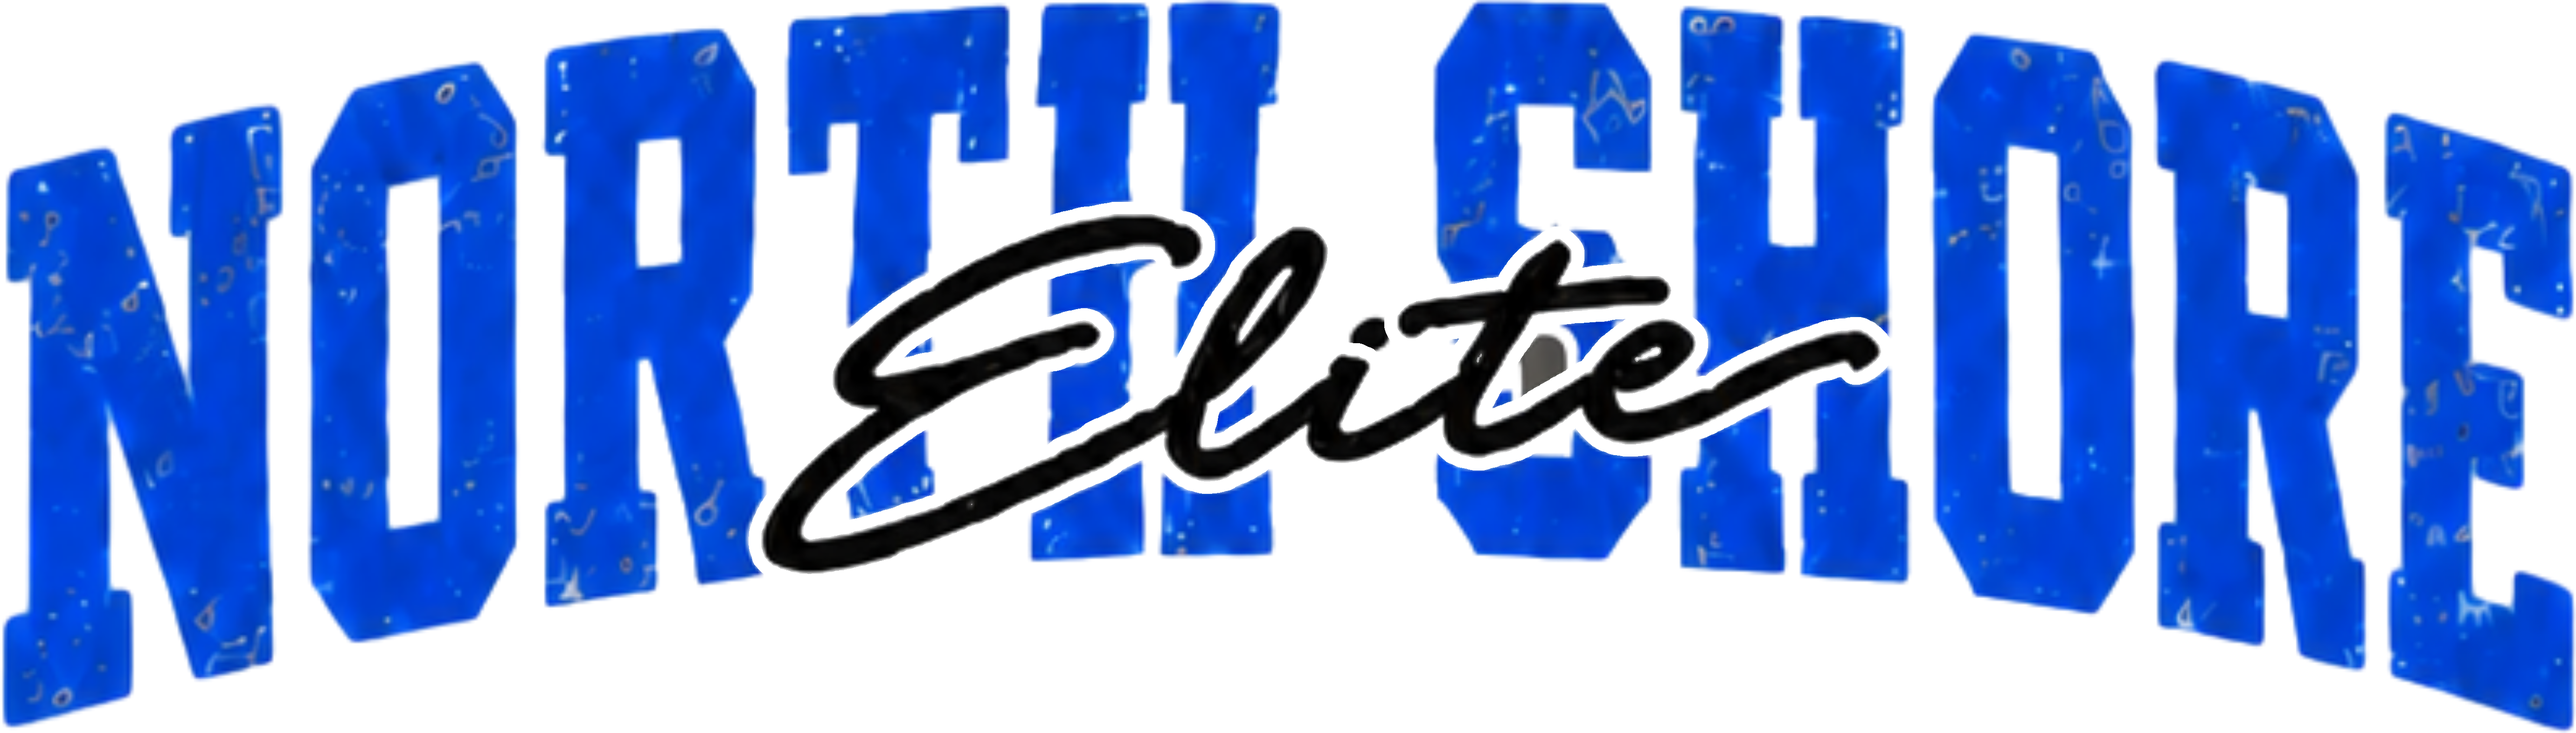
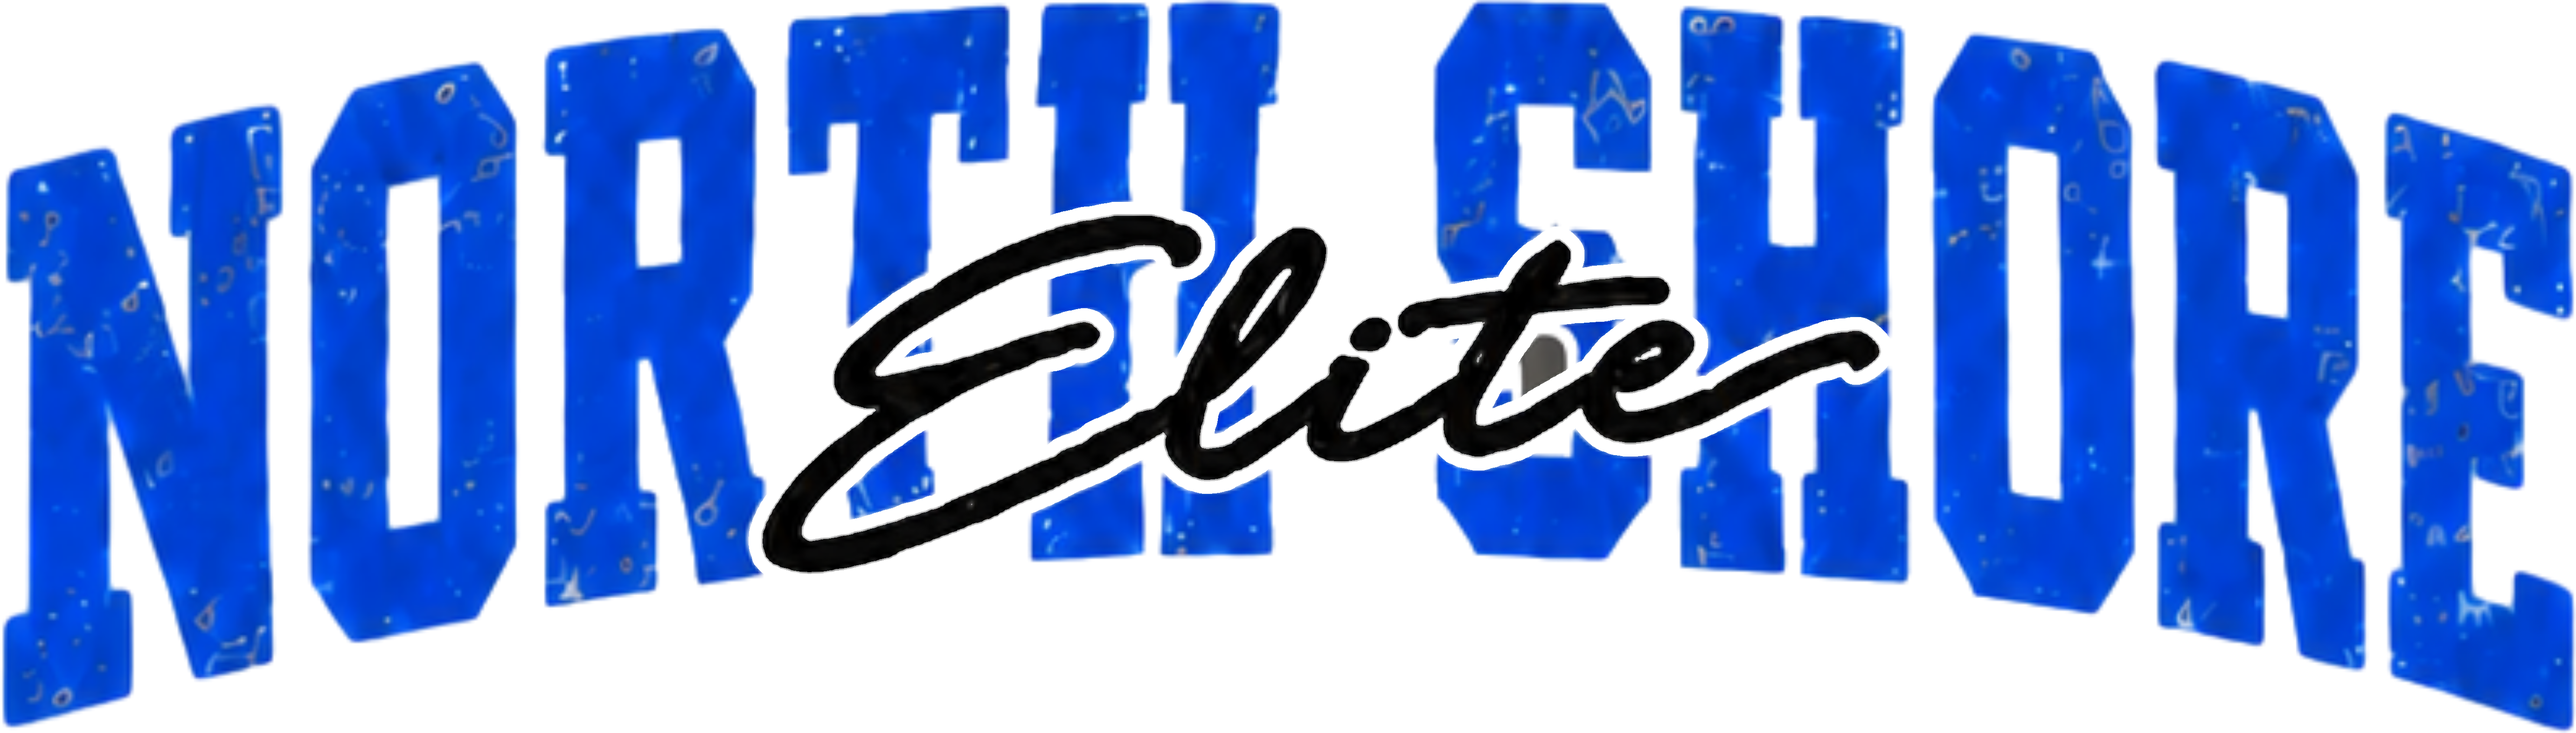
NSE glitter arch trim: Elite kept its own black and made fully solid; i-dot trimmed too
Claude-Session: https://claude.ai/code/session_01DMxqkpx9i6Gphzrjoa9ZM8

diff --git a/tools/nse_arch/elite_trim.py b/tools/nse_arch/elite_trim.py
@@ -15,7 +15,7 @@ a = np.asarray(im.convert('RGBA')).astype(np.float32)
 al = a[..., 3]; rgb = a[..., :3]; lum = rgb.mean(-1)
 dark = (al > 127) & (rgb.max(-1) < 70)
 lab, n = nd.label(dark); sz = np.bincount(lab.ravel()); sz[0] = 0
-core = lab == sz.argmax()                                    # the Elite script
+core = np.isin(lab, np.where(sz > 1000)[0])                 # the Elite script + the dot of its i
 ys, xs = np.where(core); P = int(W) + 20
 y0, y1, x0, x1 = max(0, ys.min() - P), ys.max() + P + 1, max(0, xs.min() - P), xs.max() + P + 1
 sub = core[y0:y1, x0:x1].astype(np.float32)
@@ -28,7 +28,7 @@ T = np.zeros(core.shape, bool); T[y0:y1, x0:x1] = trim
 # Elite coverage on its soft edge (dark, near the core) -> laid over the white
 near = nd.binary_dilation(core, iterations=4)
 e = np.clip((al / 255.0) * np.clip((150 - lum) / (150 - 7), 0, 1), 0, 1) * near
-e[core] = np.maximum(e[core], al[core] / 255.0)
+e[core] = 1.0                                                 # Elite itself: its own colour, made fully solid (parts of it were see-through)
 o = a.copy()
 zone = T | core
 white = np.array([255, 255, 255], np.float32)
